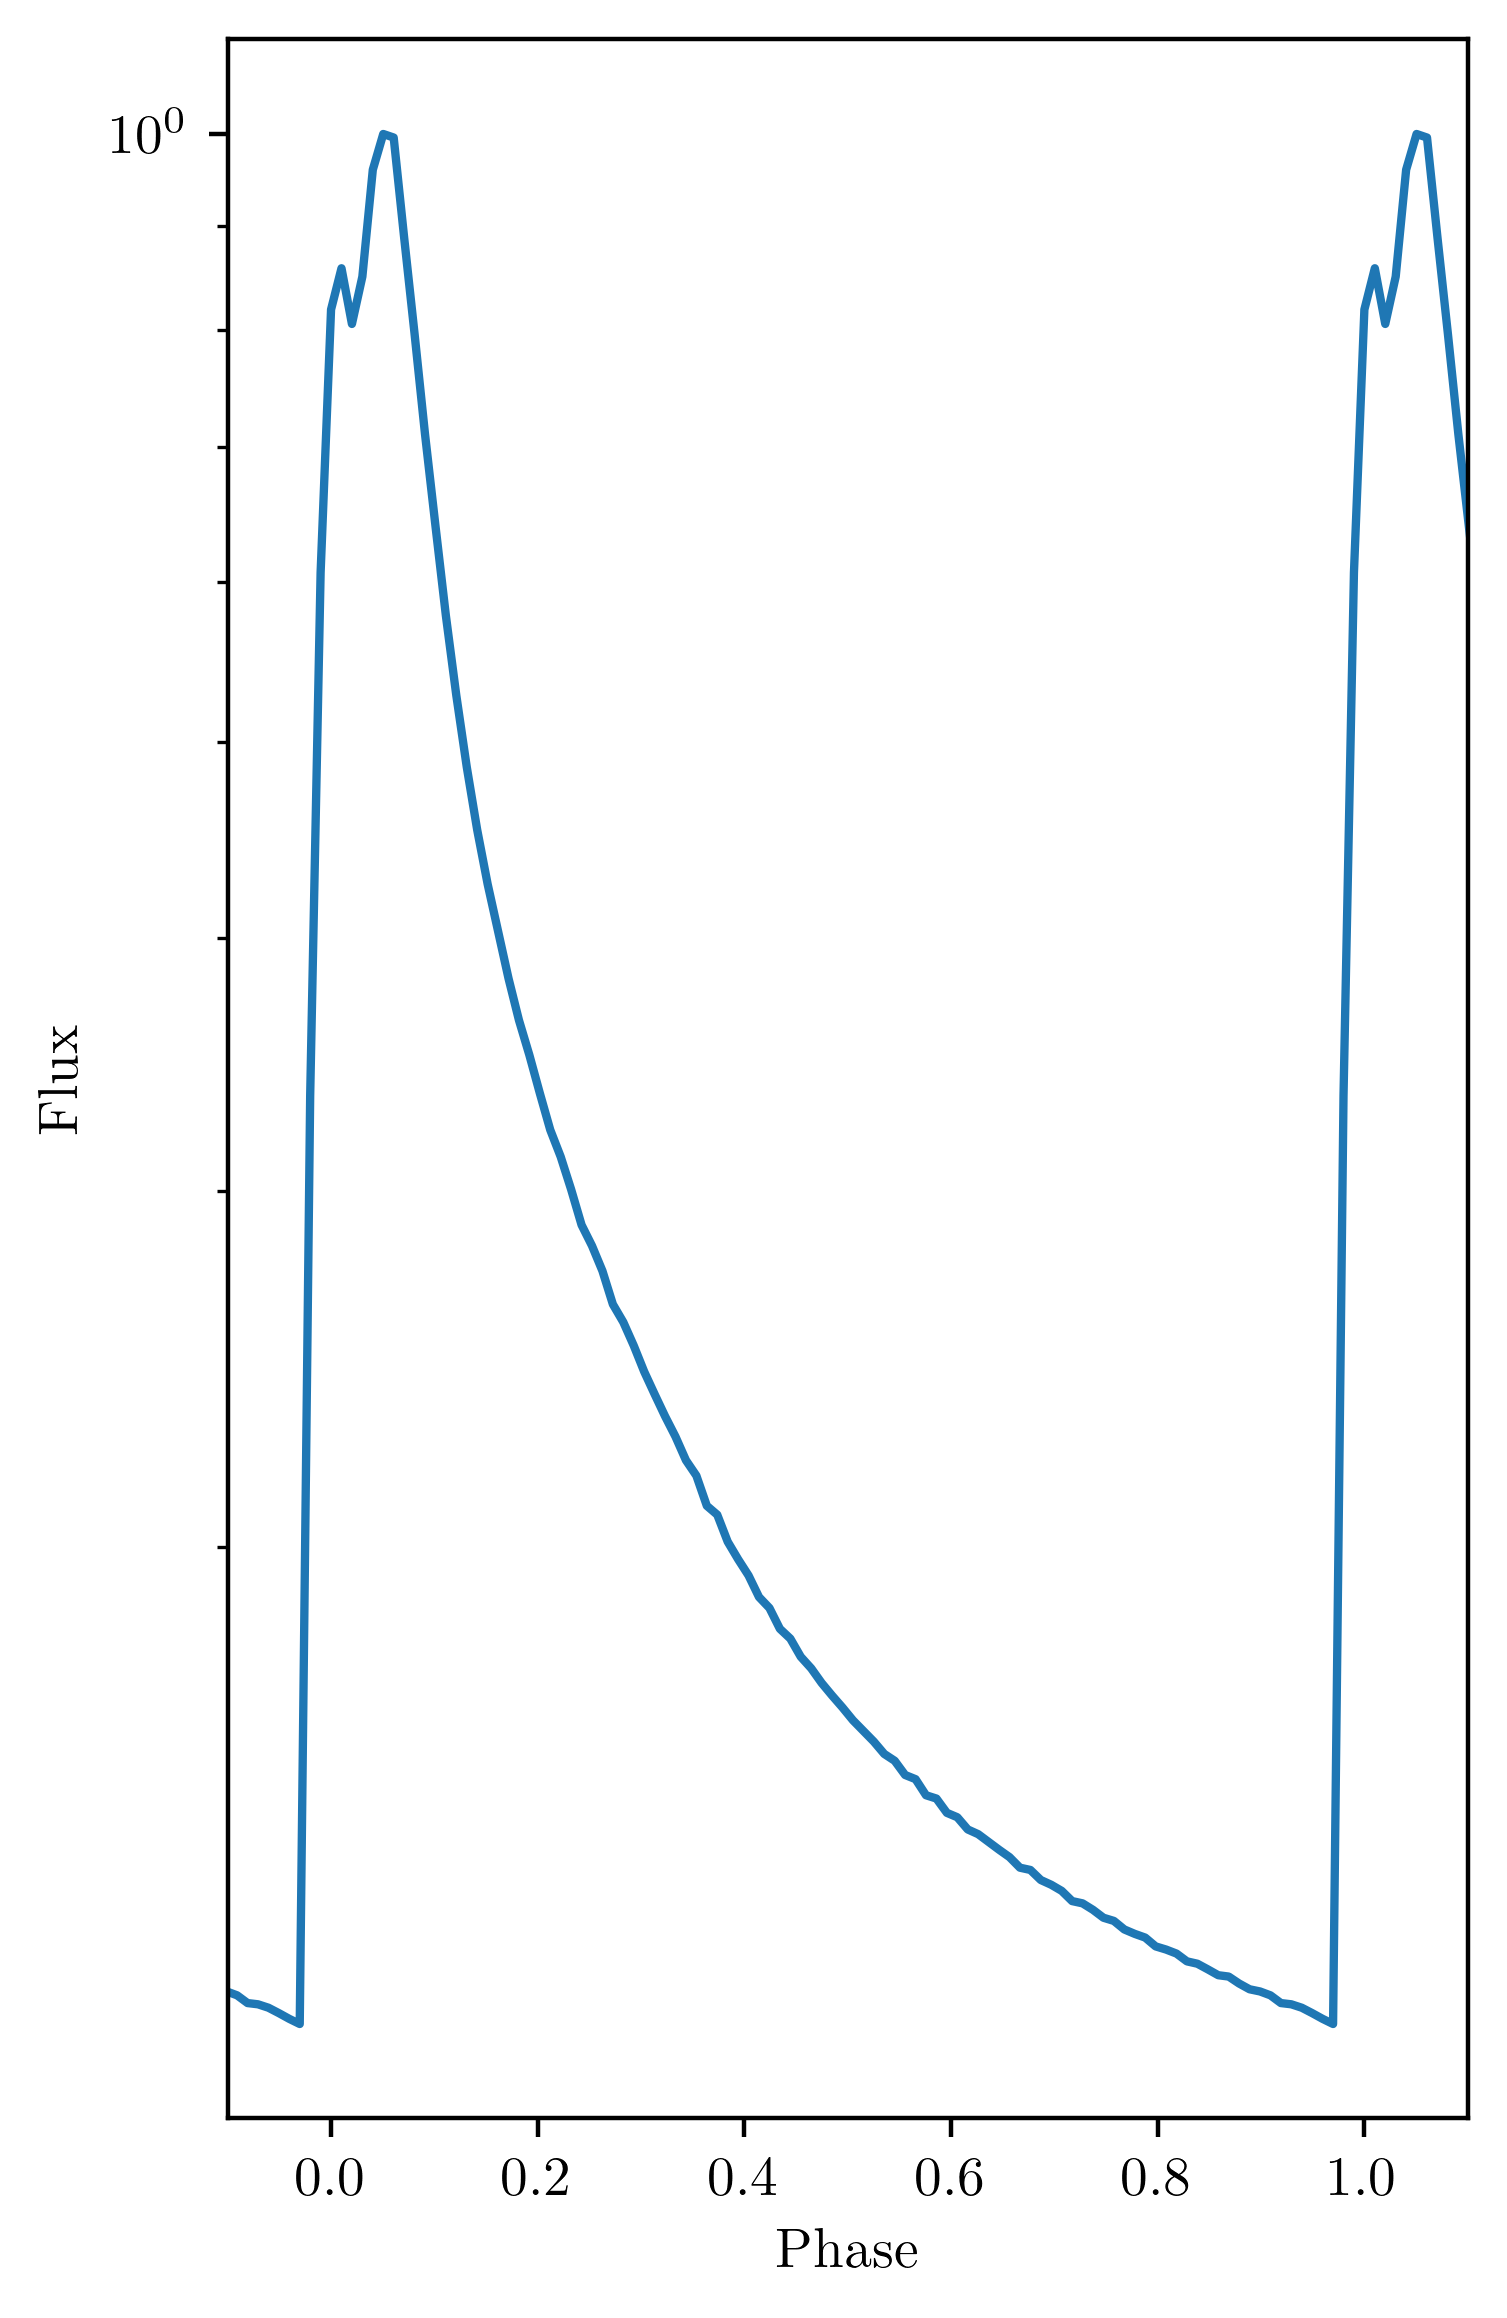
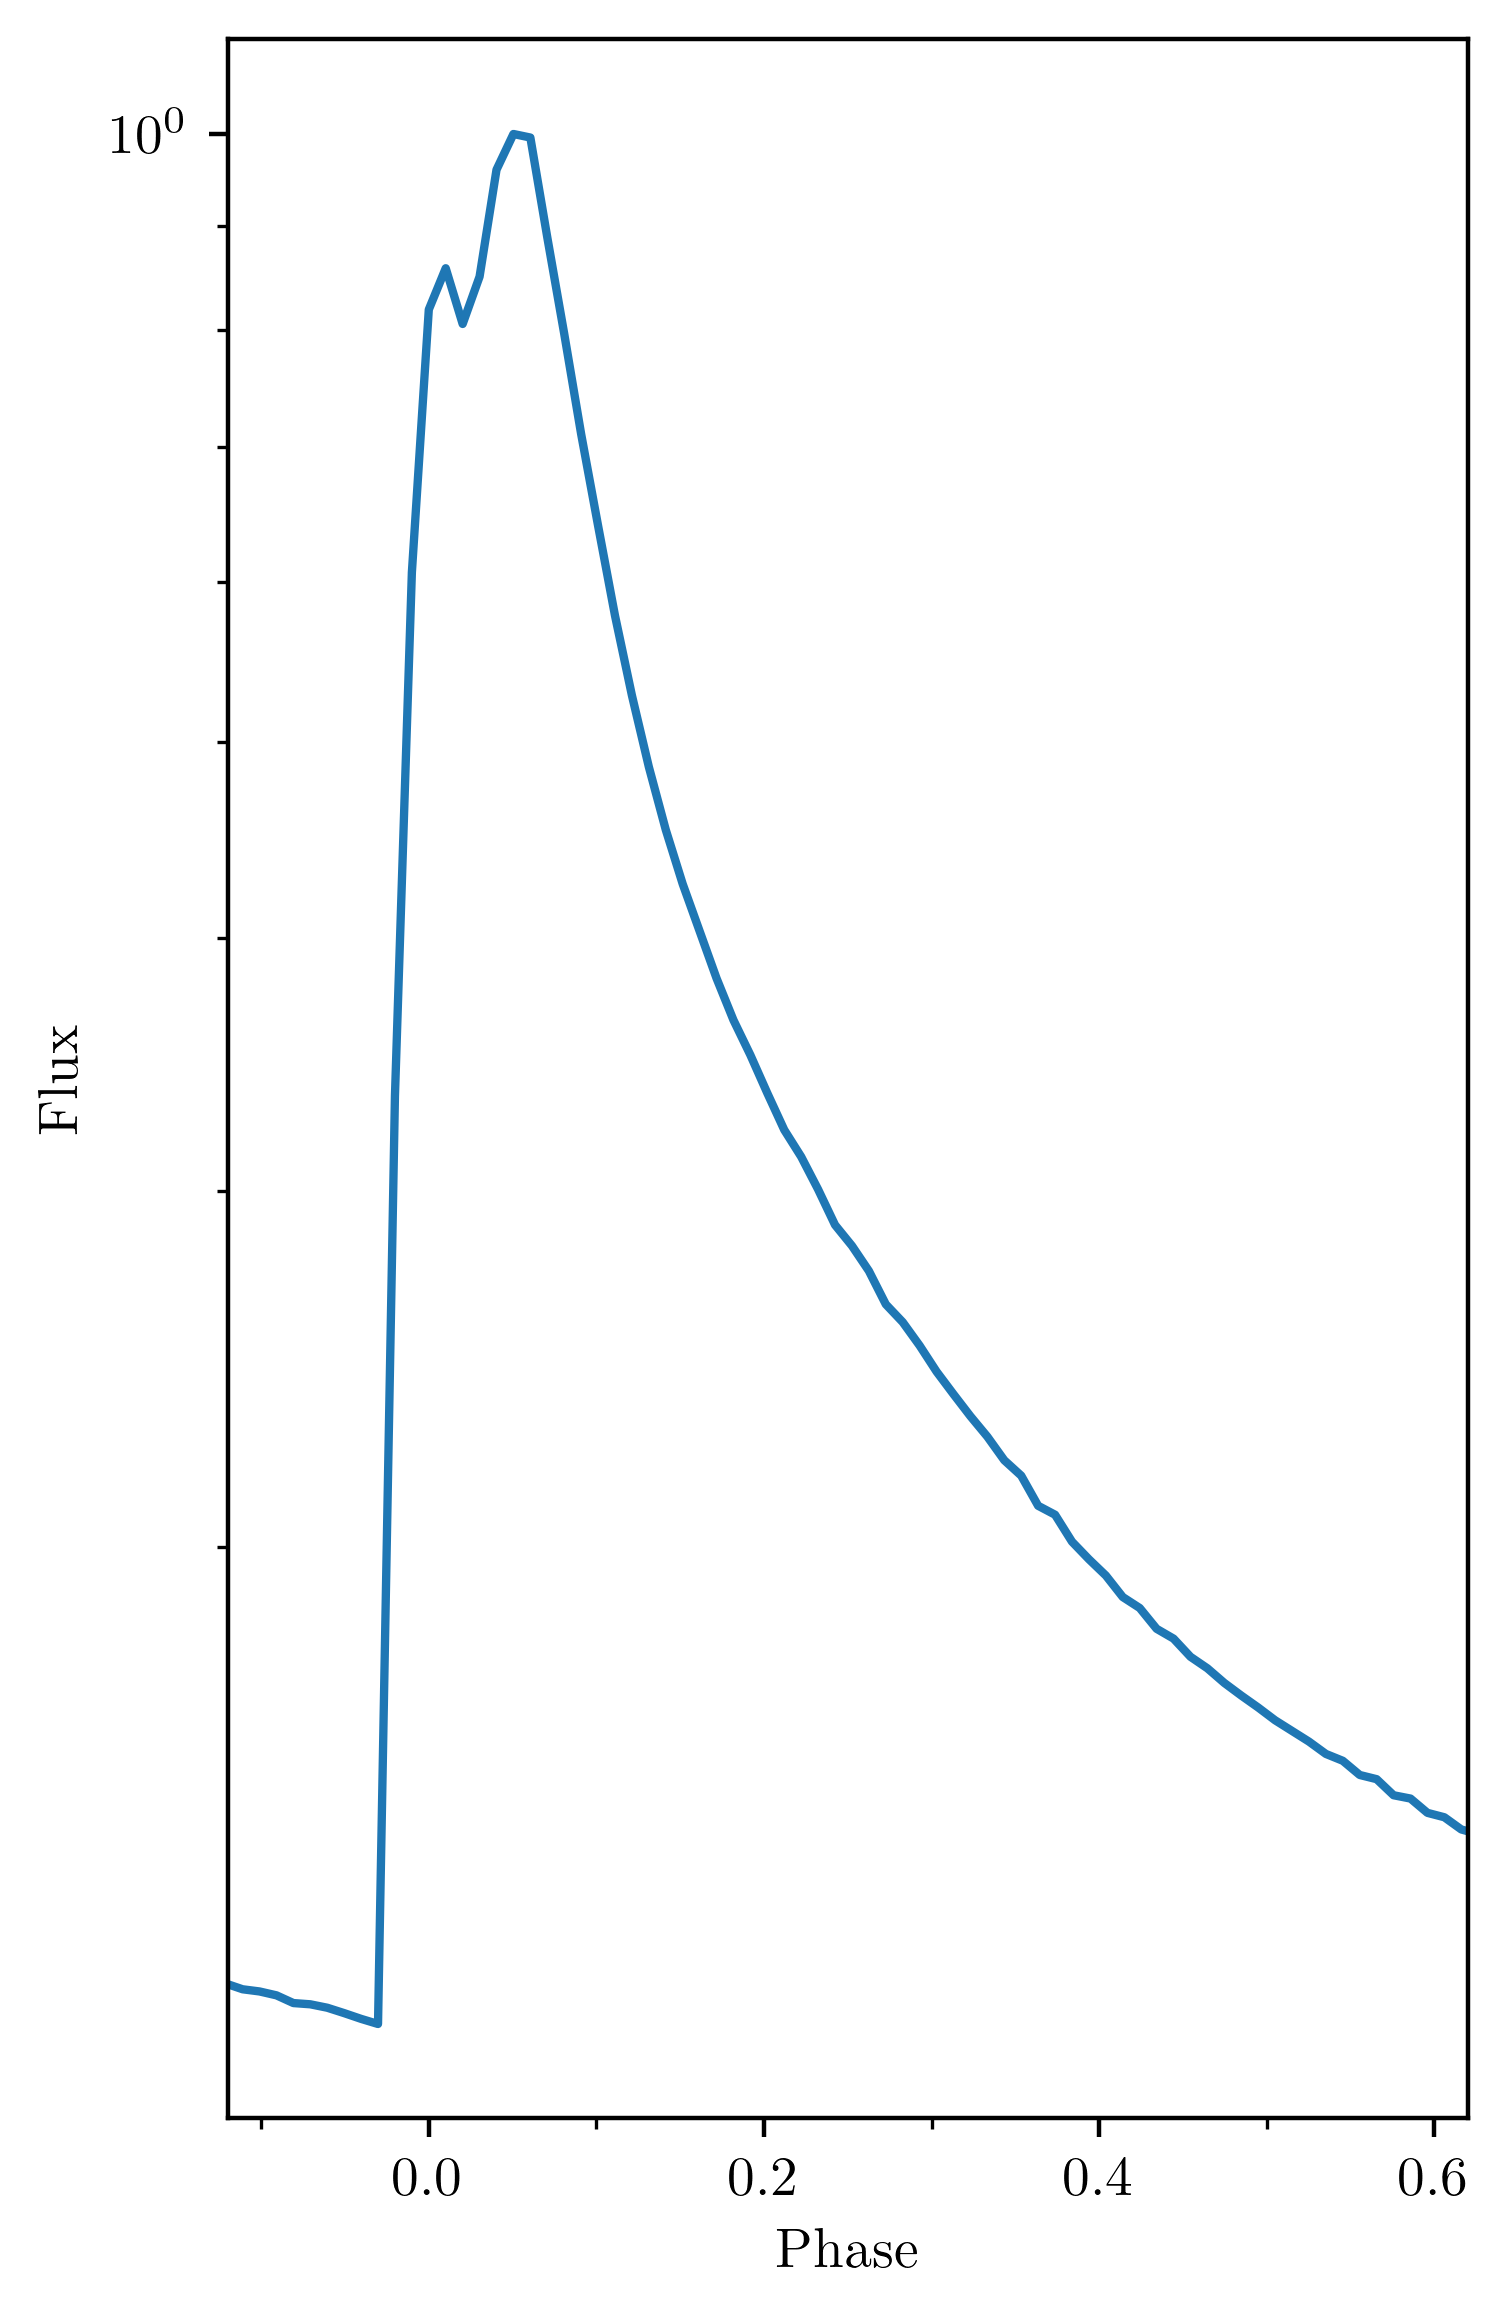
Updated WR140 light curve

diff --git a/Plots_File.py b/Plots_File.py
@@ -1207,6 +1207,8 @@ def smooth_hist_gradient():
     ax.set(aspect='equal', xlabel=r'$x$', ylabel=r'$y$')
     
 def WR140_lightcurve():
+    from matplotlib.ticker import MultipleLocator
+    
     phases, fluxes = gm.generate_lightcurve(wrb.WR140, n=100, shells=2)
     
     fig, ax = plt.subplots(figsize=(4, 6.75))
@@ -1221,7 +1223,11 @@ def WR140_lightcurve():
     fluxes = np.tile(fluxes, 3)
     
     ax.plot(phases, fluxes)
-    ax.set(xlabel='Phase', ylabel='Flux', yscale='log', xlim=(-0.1, 1.1))
+    
+    xlim = (-0.1, 1.1)
+    xlim = (-0.12, 0.62)
+    ax.set(xlabel='Phase', ylabel='Flux', yscale='log', xlim=xlim)
+    ax.xaxis.set_minor_locator(MultipleLocator(0.1))
     
     fig.savefig('Images/WR140_Light_Curve.png', dpi=400, bbox_inches='tight')
     fig.savefig('Images/WR140_Light_Curve.pdf', dpi=400, bbox_inches='tight')
@@ -1387,10 +1393,10 @@ def main():
     # smooth_hist_gradient()
     
     # variation_gaussian()
-    effects_compare()
+    # effects_compare()
     # anisotropy_compare()
     
-    # WR140_lightcurve()
+    WR140_lightcurve()
     
     # WR48a_lightcurve()
     # WR48a_plot()

diff --git a/WR_Geom_Model.py b/WR_Geom_Model.py
@@ -1209,7 +1209,8 @@ def generate_lightcurve(stardata, n=100, shells=1):
     phases = jnp.linspace(0, 1, n)
     fluxes = np.zeros(n)
     
-    im_size = 600
+    im_size = 256
+    # im_size = 600
     
     for i in range(n):
         starcopy = stardata.copy()
